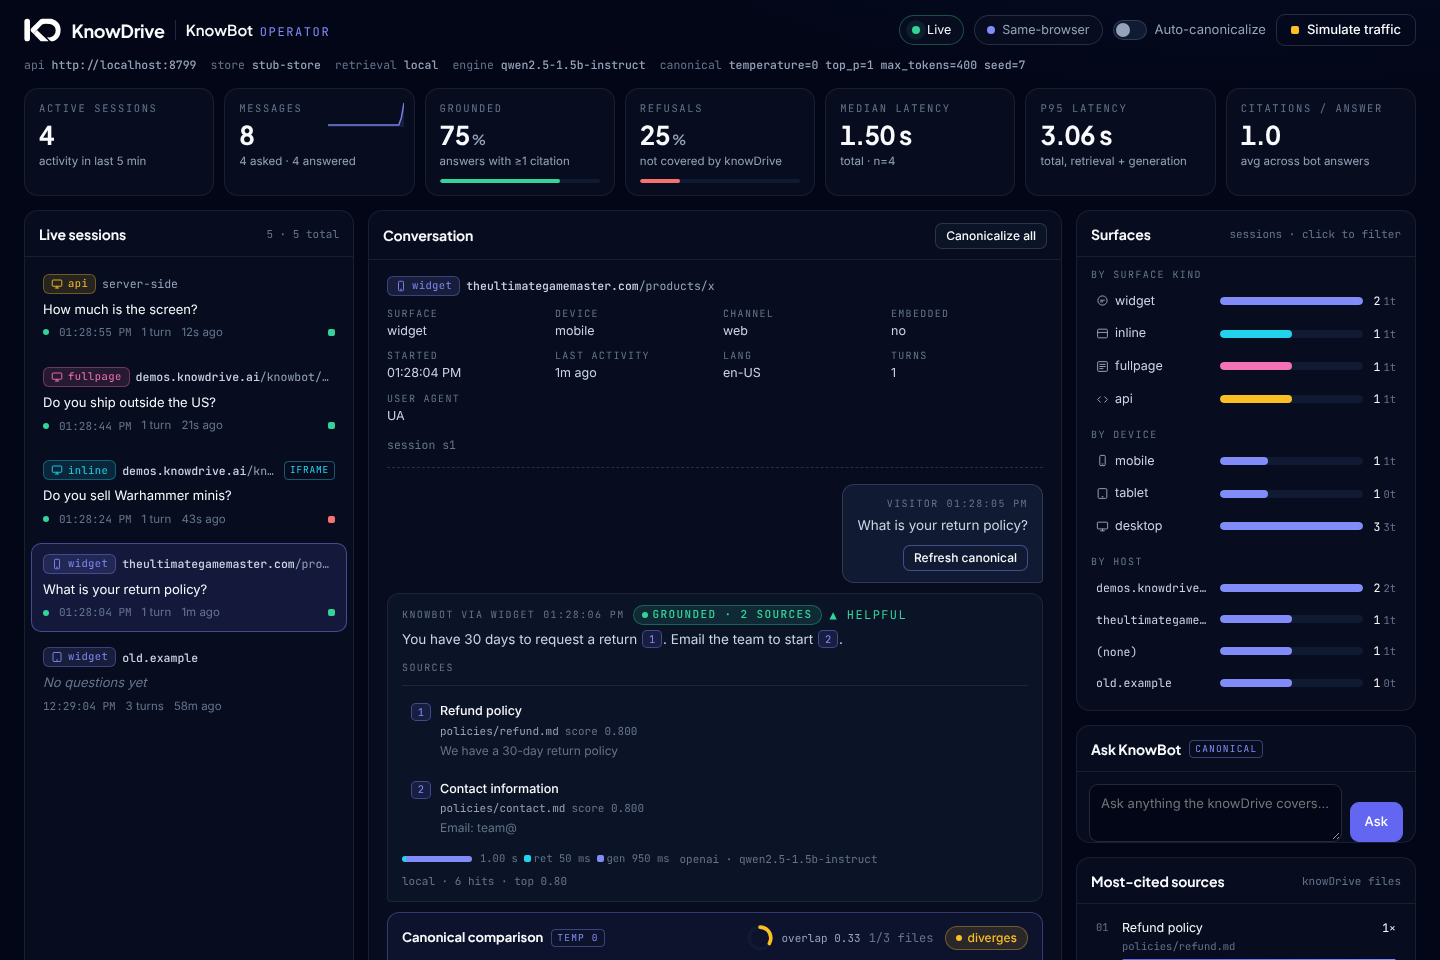
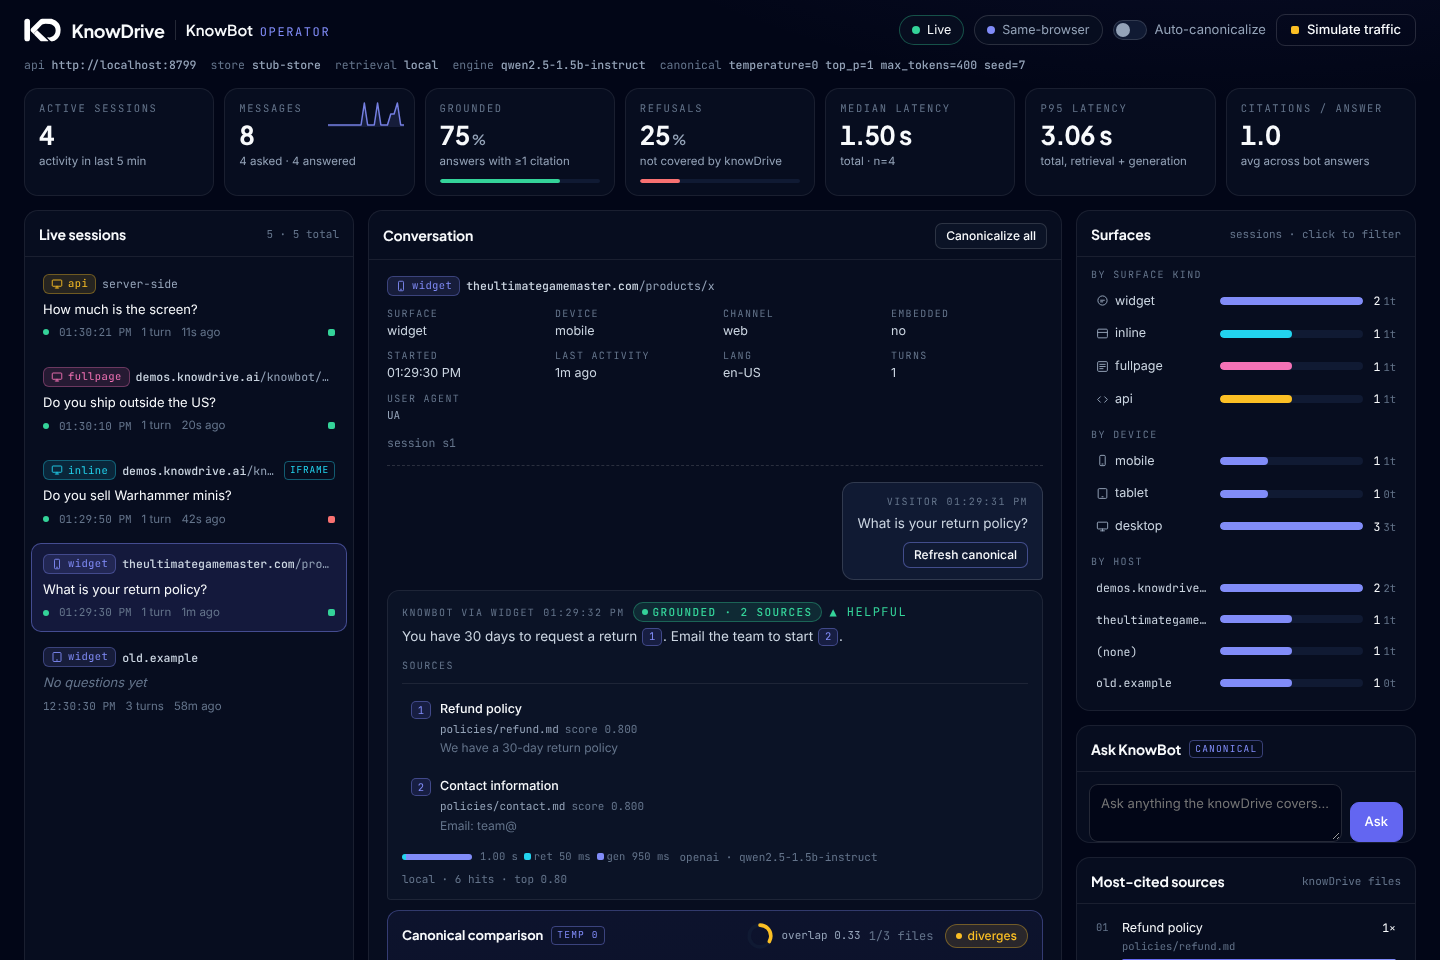
KnowBot: WIP from build agents
Claude-Session: https://claude.ai/code/session_014fjwBNeDvhfFp2AEnab3KU

diff --git a/dashboard/dashboard.js b/dashboard/dashboard.js
@@ -426,7 +426,7 @@ function withFocus(container, fn) {
   if (fk) { const n = container.querySelector(`[data-fk="${CSS.escape(fk)}"]`); if (n) n.focus({ preventScroll: true }); }
 }
 
-function surfaceBadge(surface, { full = false } = {}) {
+function surfaceBadge(surface, { full = false, sim = false } = {}) {
   const kind = surface.kind;
   const where = h('span', { class: 'where', title: `${surface.host}${surface.path}` });
   if (surface.host) where.append(h('b', null, surface.host));
@@ -435,6 +435,7 @@ function surfaceBadge(surface, { full = false } = {}) {
   return h('span', { class: 'sbadge' },
     h('span', { class: `kind kind-${kind}`, title: `Surface: ${kind}, device: ${surface.device}` },
       icon(surface.device === 'unknown' ? (kind === 'api' ? 'api' : 'unknown') : surface.device), kind),
+    sim ? simFlag() : null,
     where,
     surface.embedded ? h('span', { class: 'flag flag-iframe', title: 'Rendered inside an iframe' }, 'iframe') : null,
   );
@@ -446,15 +447,18 @@ function computeKpis() {
   const now = Date.now();
   let active = 0, users = 0, bots = 0, grounded = 0, refused = 0, cites = 0;
   const lat = [];
-  const buckets = new Array(30).fill(0); // messages per minute, last 30 min
+  const N = 24; const buckets = new Array(N).fill(0);
+  let first = now;
+  for (const s of S.sessions.values()) if (sessionMatches(s)) for (const t of s.turns.values()) for (const m of [t.user, t.bot]) if (m) first = Math.min(first, m.ts);
+  const span = Math.min(30 * 60000, Math.max(2 * 60000, now - first)); // adaptive window: 2–30 min
   for (const s of S.sessions.values()) {
     if (!sessionMatches(s)) continue;
     if (now - s.lastAt <= ACTIVE_MS) active++;
     for (const t of s.turns.values()) {
       for (const m of [t.user, t.bot]) {
         if (!m) continue;
-        const b = 29 - Math.floor((now - m.ts) / 60000);
-        if (b >= 0 && b < 30) buckets[b]++;
+        const b = N - 1 - Math.floor(((now - m.ts) / span) * N);
+        if (b >= 0 && b < N) buckets[b]++;
       }
       if (t.user) users++;
       if (t.bot) {
@@ -490,7 +494,7 @@ function renderKpis() {
   const el = $('#kpis');
   rc(el, 
     tile('Active sessions', String(k.active), 'activity in last 5 min', null, 'active'),
-    tile('Messages', String(k.messages), `${k.users} asked · ${k.bots} answered`, sparkline(k.buckets), 'messages'),
+    tile('Messages', String(k.messages), `${k.users} asked · ${k.bots} answered`, k.messages ? sparkline(k.buckets) : null, 'messages'),
     tile('Grounded', pct(k.grounded), 'answers with ≥1 citation', meter(k.grounded), 'grounded'),
     tile('Refusals', pct(k.refused), 'not covered by knowDrive', meter(k.refused, true), 'refused'),
     tile('Median latency', fmtMs(k.med), `total · n=${k.latN}`, null, 'median'),
@@ -541,7 +545,7 @@ function sessionRow(s) {
     type: 'button', class: 'srow', 'data-fk': `s:${s.sessionId}`, 'aria-current': S.selected === s.sessionId ? 'true' : 'false',
     onclick: () => selectSession(s.sessionId, true),
   },
-    h('span', { class: 'srow-meta' }, surfaceBadge(s.surface), s.sim ? simFlag() : null),
+    h('span', { class: 'srow-meta' }, surfaceBadge(s.surface, { sim: s.sim })),
     h('span', { class: `srow-q${lastQ ? '' : ' none'}` }, lastQ ? lastQ.user.text : 'No questions yet'),
     h('span', { class: 'srow-meta' },
       active ? h('span', { class: 'live-dot', title: 'active in last 5 min' }) : null,
@@ -686,13 +690,13 @@ function renderConvo() {
     }
     const sf = s.surface;
     const head = h('div', { class: 'convo-head' },
-      h('div', { class: 'convo-head-top' }, surfaceBadge(sf, { full: true }), s.sim ? simFlag() : null),
+      h('div', { class: 'convo-head-top' }, surfaceBadge(sf, { full: true, sim: s.sim })),
       h('dl', { class: 'facts' },
         fact('Surface', sf.kind), fact('Device', sf.device), fact('Channel', sf.channel || '—'), fact('Embedded', sf.embedded ? 'yes (iframe)' : 'no'),
         fact('Started', `${clock(s.startedAt)}`), fact('Last activity', ago(s.lastAt)), fact('Lang', sf.lang || '—'),
         fact('Turns', String(Math.max(turns.length, s.serverTurns || 0))),
         sf.referrer ? fact('Referrer', sf.referrer, true) : null,
-        sf.ua ? fact('User agent', sf.ua, true) : null),
+        sf.ua ? fact('User agent', sf.ua, 'ua') : null),
       h('div', { class: 'convo-sid' }, `session ${s.sessionId}`),
     );
     const kids = [head];
@@ -701,7 +705,7 @@ function renderConvo() {
     rc(box, ...kids);
   });
 }
-function fact(k, v, wrap) { return h('div', null, h('dt', null, k), h('dd', { class: wrap ? 'wrap' : null, title: v }, v)); }
+function fact(k, v, wrap) { return h('div', { class: wrap ? 'fact-wide' : null }, h('dt', null, k), h('dd', { class: wrap ? `wrap${wrap === 'ua' ? ' clamp' : ''}` : null, title: v }, v)); }
 
 function turnView(s, t, i) {
   const wrap = h('article', { class: 'turn', 'aria-label': `Turn ${i + 1}` });

diff --git a/dashboard/dashboard.css b/dashboard/dashboard.css
@@ -185,6 +185,8 @@ main { flex: 1; width: 100%; max-width: 1680px; margin: 0 auto; padding: 14px 24
 .facts dt { font-family: var(--mono); font-size: 10px; letter-spacing: 1.3px; text-transform: uppercase; color: var(--dim); }
 .facts dd { margin: 1px 0 0; font-size: 12.5px; color: var(--text); overflow: hidden; text-overflow: ellipsis; white-space: nowrap; }
 .facts dd.wrap { white-space: normal; overflow-wrap: anywhere; }
+.facts .fact-wide { grid-column: 1 / -1; }
+.facts dd.clamp { display: -webkit-box; -webkit-line-clamp: 2; -webkit-box-orient: vertical; overflow: hidden; font-family: var(--mono); font-size: 11px; color: var(--muted); }
 
 .turn { display: flex; flex-direction: column; gap: 10px; margin-bottom: 22px; }
 .msg { border-radius: 12px; padding: 11px 14px; max-width: 100%; min-width: 0; overflow-wrap: anywhere; }
@@ -342,7 +344,11 @@ button.cite:hover { background: rgba(129,140,248,.28); color: #fff; }
   .kpi-value { font-size: 22px; }
   .spark { display: none; }
   .brand-sep, .brand-name { display: none; }
-  .top-actions { width: 100%; justify-content: space-between; gap: 8px; }
+  .top-actions { width: 100%; display: grid; grid-template-columns: auto 1fr; gap: 8px; align-items: center; }
+  .top-actions #sim-btn { justify-self: end; }
+  .top-actions .switch { grid-column: 1 / -1; order: 3; }
+  .meta-row { font-size: 10.5px; gap: 2px 10px; }
+  .kpis .kpi:last-child { grid-column: 1 / -1; }
   .pill-bc { display: none; }
   .switch-label { font-size: 12px; }
   .btn { padding: 0 11px; }
